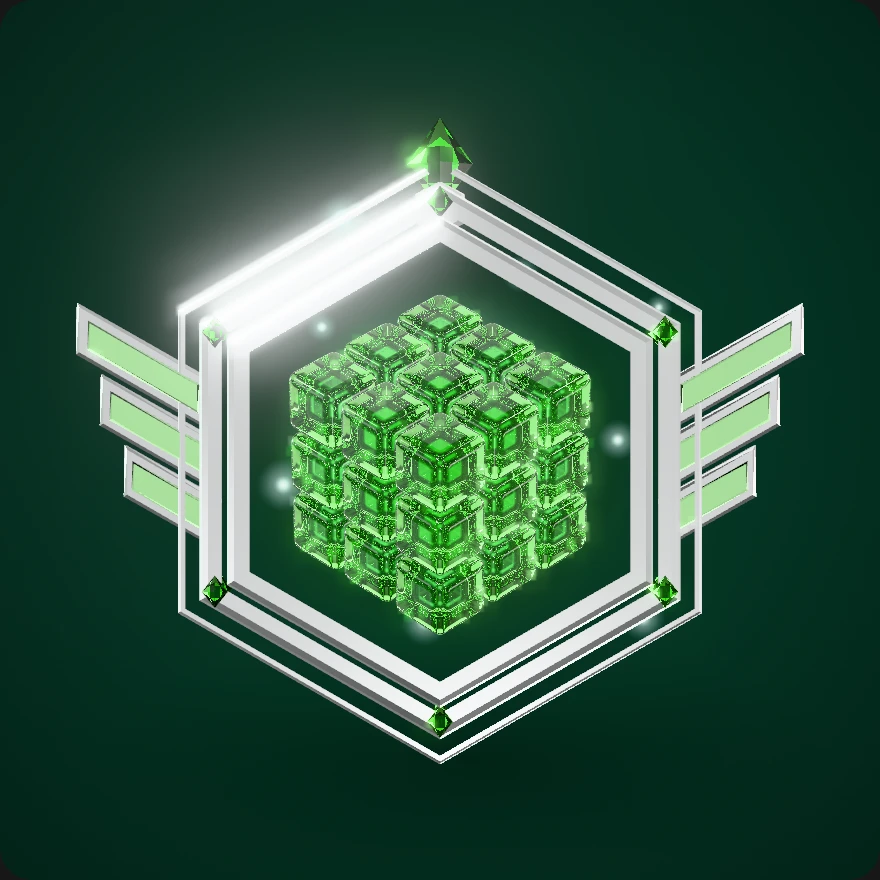
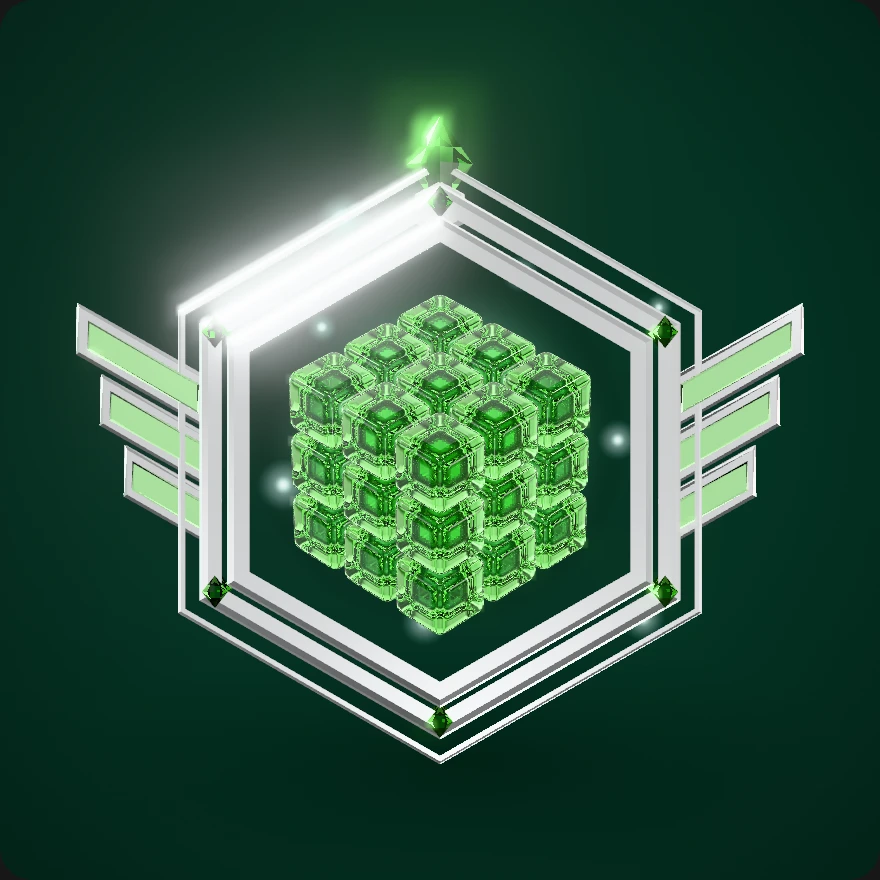
feat(cube): 아홉째 시안을 모든 보석 티어에 — 다이아몬드·마스터·그랜드마스터·챌린저
사용자 「오 이제 꽤 마음에 드네. 근데 모두 에메랄드만 한 거야?」. n·q·p·o1·o2를
보석 티어 다섯 모두에 입힌다(?tier=<티어>&gem=<시안>). 구조는 시안에서, 색·굴절률·
분산은 티어 보석 값(다이아몬드 2.417 분산, 자수정 1.544, 루비 1.77, 챌린저 무지개)에서.
앞 시안(now·a~m)은 에메랄드에만 견주기용으로 둔다.

- q를 다이아몬드에 입히자 생긴 색 알갱이: 둥근 상자 벽은 겉 안쪽 끝을 쓰고,
  q는 벽 닿기 3번에 남은 빛은 살짝 흐린 둘레를 읽게
- 대기 그림 40장 더(모두 100장), 미리보기 단추는 지금 티어에 적용
- 다이아몬드 n·o2는 돌리는 동안 quality.ts가 해상도를 낮춰 60fps

diff --git a/apps/web/src/cube/tiers/emblem3d/gemStyle.ts b/apps/web/src/cube/tiers/emblem3d/gemStyle.ts
@@ -71,6 +71,34 @@ export const GEM_STYLE_LABEL: Record<GemStyle, string> = {
   o2: "o2 결정 구조(큐브 전체)",
 };
 
+/**
+ * 모든 보석 티어에 입히는 시안(아홉째 시안, 2026-11-13 사용자 「오 이제 꽤 마음에 드네. 근데 모두 에메랄드만 한 거야?」).
+ * 구조(모양·깎은 면·결정 구조·스튜디오)는 시안에서, 색·굴절률·분산은 그 티어 보석 값(`scene.ts` `LOOK`)에서 가져온다.
+ * 에메랄드는 시안에 적은 색 그대로. 그 앞 시안(now·a~m)은 에메랄드 색과 유리 실험에 묶인 값이라 견주기용으로 에메랄드에만 둔다
+ */
+export const ALL_GEM_STYLES: readonly GemStyle[] = ["n", "q", "p", "o1", "o2"];
+/** 보석 티어(에메랄드부터, `isGem`과 같다) */
+export const GEM_TIERS = [
+  "emerald",
+  "diamond",
+  "master",
+  "grandmaster",
+  "challenger",
+] as const;
+
+/** 이 티어에 쓸 시안(못 쓰면 null): 에메랄드는 모든 시안, 다른 보석 티어는 아홉째 시안만 */
+export function styleForTier(
+  tier: string,
+  style: GemStyle | null | undefined,
+): GemStyle | null {
+  if (!style) return null;
+  if (tier === "emerald") return style;
+  return (GEM_TIERS as readonly string[]).includes(tier) &&
+    ALL_GEM_STYLES.includes(style)
+    ? style
+    : null;
+}
+
 /** 주소의 `?gem=now|a|…|g`. 없거나 모르는 값이면 null(시안 고르기 없이 지금 모습) */
 export function gemStyleOf(search: string): GemStyle | null {
   const v = new URLSearchParams(search).get("gem");
@@ -458,10 +486,15 @@ export const GEM_STYLE_LOOK: Readonly<Record<GemStyle, GemStyleLook>> = {
     ...DEEP,
     shape: "round",
     left: [0.4, 0.86, 0.32],
-    steps: 7,
+    // 둥근 모서리에서 여러 번 전반사하는 빛길은 만화경처럼 예민해 화소마다 결과가 달라진다(다이아몬드에서 색 알갱이).
+    // 벽 닿기를 3번까지만 따라가고 남은 빛은 흐린 둘레를 읽는다
+    steps: 3,
     glow: 0.8,
     envGain: 1.7,
     frontEnv: 1.5,
+    // 곡면에서 여러 번 전반사하면 이웃 화소끼리 다른 길을 가 색 알갱이가 생겼다(다이아몬드에서 심함). 안에서 읽는
+    // 배경판·반사 지도를 살짝 흐려 부드러운 둥근 테로
+    blur: { bias: 1.5, rough: 0.22 },
   },
   // p 브릴리언트 속: 겉은 평평한 큐브 조각, 안쪽 벽만 브릴리언트 파빌리언 면이라 테이블 너머로 방사형 조각 무늬
   p: {

diff --git a/apps/web/src/cube/tiers/EmblemPreview.tsx b/apps/web/src/cube/tiers/EmblemPreview.tsx
@@ -6,10 +6,13 @@ import { cn } from "@/lib/cn";
 import { HDR_GLOW_SRC } from "@/stardraw/hdr-glow";
 import { Emblem3D, EmblemGrid, EmblemShots } from "./Emblem3D";
 import {
+  ALL_GEM_STYLES,
   GEM_STYLE_LABEL,
   GEM_STYLES,
+  GEM_TIERS,
   type GemStyle,
   gemStyleOf,
+  styleForTier,
 } from "./emblem3d/gemStyle";
 import { BIG_SIZE, DRAFT_SIZE, POSTER_PAGE } from "./emblem3d/poster";
 import { DRAFT_TIERS, type DraftTier } from "./emblem3d/scene";
@@ -182,8 +185,9 @@ function Draft3d() {
       const g = gemStyleOf(window.location.search);
       setGem(g);
       const t = DRAFT_TIERS.find((x) => x === q.get("tier"));
-      if (g) setTier("emerald");
-      else if (t) setTier(t);
+      // ?tier=diamond&gem=n 처럼 그 티어에 쓸 수 있는 시안이면 그 티어, 아니면 시안이 있는 에메랄드
+      if (t && (!g || styleForTier(t, g))) setTier(t);
+      else if (g) setTier("emerald");
       setAuto(q.get("auto") === "1");
     } catch {
       setLight(false);
@@ -194,22 +198,30 @@ function Draft3d() {
   const pickTier = (t: DraftTier) => {
     if (t !== tier) rebuild();
     setTier(t);
+    setParam("tier", t);
   };
-  const style = tier === "emerald" ? gem : null;
+  const style = styleForTier(tier, gem);
   const size = style ? BIG_SIZE : DRAFT_SIZE;
+  // 다른 보석 티어는 모든 티어에 입힌 아홉째 시안 다섯만, 에메랄드·금속 티어는 전부(금속 티어에서 누르면 에메랄드로)
+  const styleItems =
+    tier !== "emerald" && (GEM_TIERS as readonly string[]).includes(tier)
+      ? ALL_GEM_STYLES
+      : GEM_STYLES;
   return (
     <section data-emblem3d-draft className="flex flex-col gap-3">
       <h2 className="font-semibold text-sm">3D 시안</h2>
       <EmblemGrid tiers={DRAFT_TIERS} selected={tier} onSelect={pickTier} />
       <Choice
         data="data-emblem3d-gem"
-        items={GEM_STYLES.map((s) => [s, GEM_STYLE_LABEL[s]] as const)}
+        items={styleItems.map((s) => [s, GEM_STYLE_LABEL[s]] as const)}
         value={style ?? ("" as GemStyle)}
         onPick={(s) => {
           rebuild();
           setGem(s);
-          setTier("emerald");
+          const t = styleForTier(tier, s) ? tier : "emerald";
+          setTier(t);
           setParam("gem", s);
+          setParam("tier", t);
         }}
       />
       <Choice

diff --git a/apps/web/src/cube/tiers/emblem3d/scene.ts b/apps/web/src/cube/tiers/emblem3d/scene.ts
@@ -27,7 +27,12 @@ import {
   gemNodeEmissive,
   hasTsl,
 } from "./gemMaterial";
-import { GEM_STYLE_LOOK, type GemStyle, type GemStyleLook } from "./gemStyle";
+import {
+  GEM_STYLE_LOOK,
+  type GemStyle,
+  type GemStyleLook,
+  styleForTier,
+} from "./gemStyle";
 
 /**
  * 3D 티어 엠블럼 시안의 장면(docs/47 14-7). 지금 SVG 엠블럼(14-6)의 구도를 3D로 옮긴다: 베벨 금속 육각 고리 틀,
@@ -89,7 +94,7 @@ export function styleFor(
   tier: DraftTier,
   style: GemStyle | null | undefined,
 ): GemStyle | null {
-  return tier === "emerald" && style ? style : null;
+  return styleForTier(tier, style);
 }
 
 export interface EmblemScene {
@@ -654,12 +659,14 @@ export function buildEmblemScene(
 ): EmblemScene {
   const styleId = styleFor(tier, opt.gemStyle);
   const sl = styleId ? GEM_STYLE_LOOK[styleId] : null;
-  const look: TierLook = sl
-    ? {
-        ...LOOK[tier],
-        gem: { ior: 1.577, spread: sl.spread, absorb: absorbFor(sl.left) },
-      }
-    : LOOK[tier];
+  // 에메랄드는 시안에 적은 색·분산, 다른 보석 티어(아홉째 시안)는 그 티어 보석의 굴절률·색·분산 그대로
+  const look: TierLook =
+    sl && tier === "emerald"
+      ? {
+          ...LOOK[tier],
+          gem: { ior: 1.577, spread: sl.spread, absorb: absorbFor(sl.left) },
+        }
+      : LOOK[tier];
   const gem = isGem(tier);
   const lv = levelOf(tier);
   const s = coreScale(tier);

diff --git a/apps/web/src/cube/tiers/emblem3d/poster.ts b/apps/web/src/cube/tiers/emblem3d/poster.ts
@@ -1,5 +1,11 @@
 import { TIER_IDS, type TierId } from "../table";
-import { GEM_STYLES, type GemStyle } from "./gemStyle";
+import {
+  ALL_GEM_STYLES,
+  GEM_STYLES,
+  GEM_TIERS,
+  type GemStyle,
+  styleForTier,
+} from "./gemStyle";
 
 /**
  * 3D 엠블럼의 대기 그림(docs/47 14-7 「다섯째 시안」, 고정 규칙 2-1절). 3D가 뜨기 전·못 뜰 때 보이는 그림을 3D
@@ -51,6 +57,17 @@ export const POSTERS: readonly PosterSpec[] = [
       size: BIG_SIZE,
     })),
   ),
+  // 다른 보석 티어 × 아홉째 시안(2026-11-13): 시안을 고르면 그 티어를 크게 본다
+  ...GEM_TIERS.filter((t) => t !== "emerald").flatMap((tier) =>
+    ALL_GEM_STYLES.flatMap((style) =>
+      (["dark", "light"] as const).map((bg) => ({
+        tier,
+        bg,
+        style,
+        size: BIG_SIZE,
+      })),
+    ),
+  ),
 ];
 
 export const posterFile = (p: PosterSpec): string =>
@@ -75,7 +92,7 @@ export function posterSrc(
 ): string | null {
   const bg = posterBg(pageColor);
   if (!bg) return null;
-  const s = tier === "emerald" ? style : null;
+  const s = styleForTier(tier, style);
   const hit = POSTERS.find(
     (p) => p.tier === tier && p.bg === bg && p.style === s && p.size === size,
   );

diff --git a/apps/web/src/cube/tiers/emblem3d/gemMaterial.ts b/apps/web/src/cube/tiers/emblem3d/gemMaterial.ts
@@ -309,10 +309,12 @@ float gemExit( vec3 p, vec3 d, out vec3 m ) {
     if ( gemRoundSdf( p + d * t ) > 0.0 ) break;
     t0 = t;
   }
-  for ( int k = 0; k < 8; k ++ ) {
+  for ( int k = 0; k < 12; k ++ ) {
     float tm = 0.5 * ( t0 + t );
     if ( gemRoundSdf( p + d * tm ) > 0.0 ) t = tm; else t0 = tm;
   }
+  // 겉 바로 안쪽 끝을 쓴다: 바깥쪽 끝을 쓰면 되튄 뒤 다음 걸음이 겉 바깥에서 시작해 화소마다 결과가 들쭉날쭉했다(색 알갱이)
+  t = t0;
   vec3 x = p + d * t;
   vec3 q = abs( x ) - vec3( ${f(GEM_BOX_HALF)} - GEM_ROUND_R );
   vec3 g = max( q, 0.0 );
